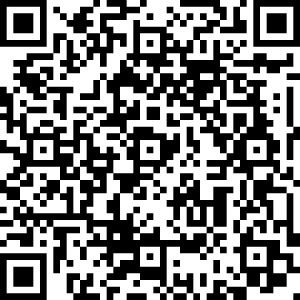
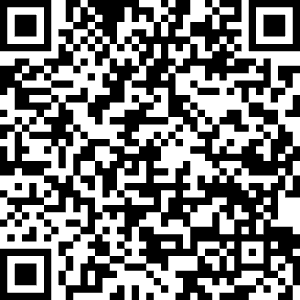
Atualização de Links e do QrCode.

diff --git a/README.md b/README.md
@@ -296,7 +296,7 @@ Essa organização facilita a manutenção, evolução e compreensão do projeto
 
 ### 🔗 Acesse a Landing Page
 
-[🌐 **Acessar a Landing Page do Pluvion**](https://katarina-freire-silva.github.io/Pluvion-Landing-Page/)
+[🌐 **Acessar a Landing Page do Pluvion**](https://sistema-pluvion.github.io/Landing-Page/)
 
 O site apresenta a proposta completa do Pluvion, desde a problemática das enchentes e alagamentos até a solução desenvolvida pela equipe.
 
@@ -306,7 +306,7 @@ O site apresenta a proposta completa do Pluvion, desde a problemática das enche
 
 O projeto está disponível no GitHub, contendo os arquivos utilizados para desenvolvimento da Landing Page.
 
-[💻 **Acessar o Repositório no GitHub**](https://github.com/katarina-freire-silva/Pluvion-Landing-Page)
+[💻 **Acessar o Repositório no GitHub**](https://github.com/Sistema-Pluvion/Landing-Page)
 
 ---
 
